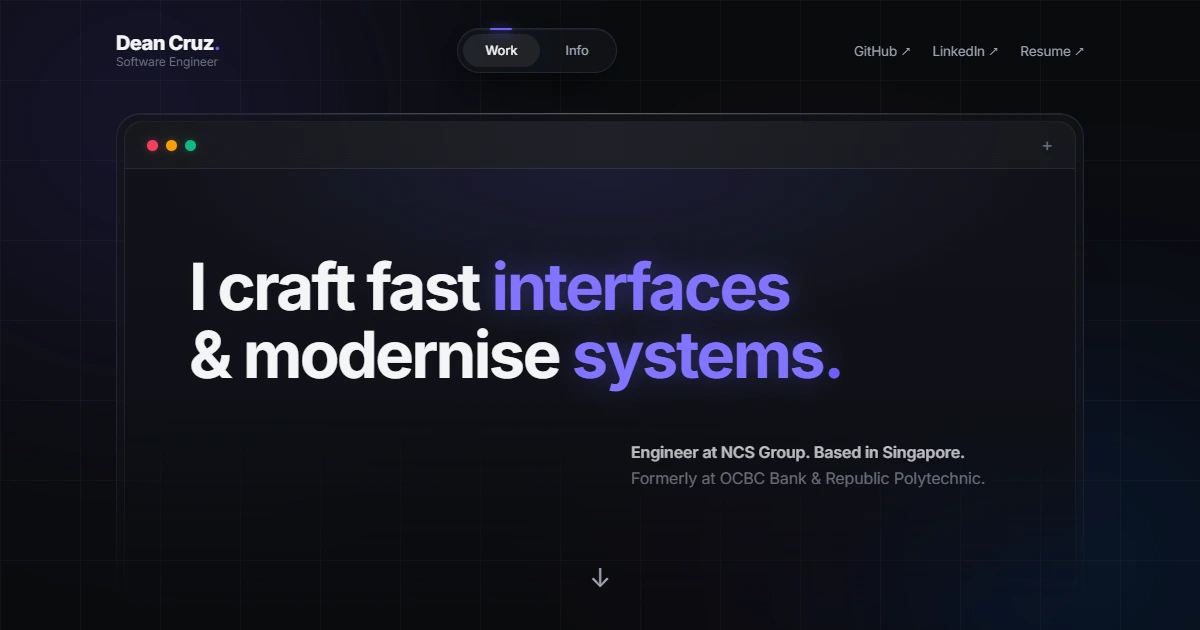
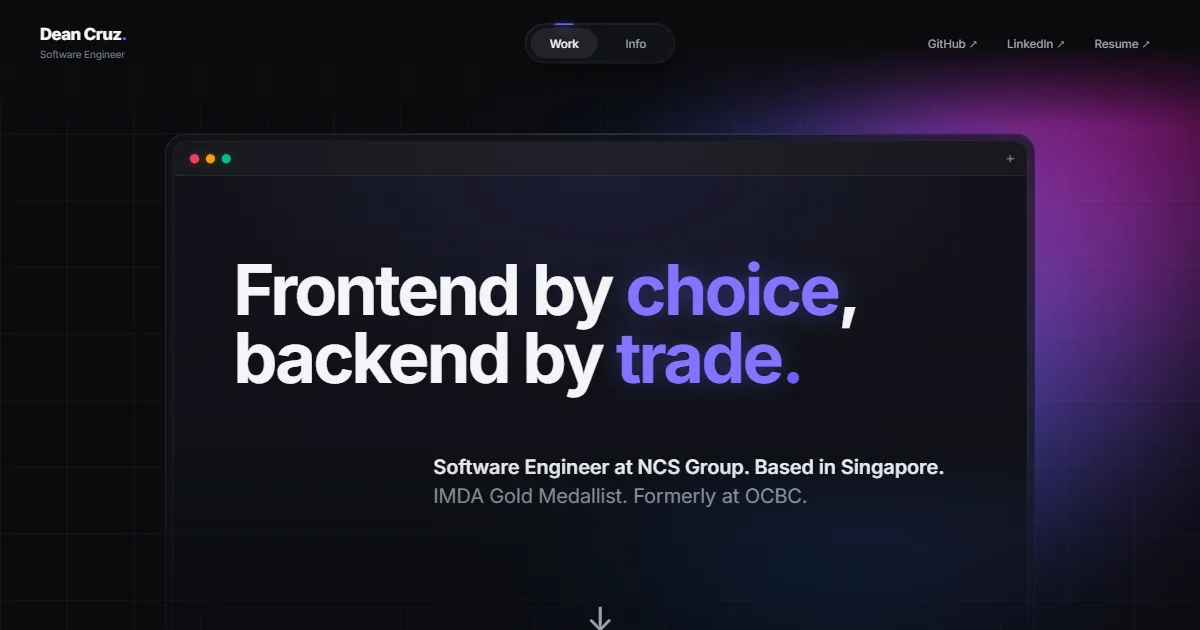
chore: refresh metadata, link preview image and README

diff --git a/index.html b/index.html
@@ -12,11 +12,11 @@
     <meta name="title" content="Dean Cruz - Software Engineer" />
     <meta
       name="description"
-      content="Dean Cruz, software engineer in Singapore. Crafting fast interfaces and modernising systems with React, TypeScript, Angular, and Java."
+      content="Dean Cruz, software engineer in Singapore. Full-stack and strongest on the frontend: React, TypeScript and Next.js projects, and Java modernisation at NCS Group."
     />
     <meta
       name="keywords"
-      content="Dean Cruz, software engineer, frontend developer, React developer, TypeScript, Next.js, Angular, Java, portfolio, Singapore"
+      content="Dean Cruz, software engineer, full-stack engineer, frontend engineer, React, TypeScript, Next.js, Java, Spring Boot, portfolio, Singapore"
     />
     <meta name="author" content="Dean Cruz" />
     <meta name="robots" content="index, follow" />
@@ -28,7 +28,7 @@
     <meta property="og:title" content="Dean Cruz - Software Engineer" />
     <meta
       property="og:description"
-      content="Dean Cruz, software engineer in Singapore. Crafting fast interfaces and modernising systems with React, TypeScript, Angular, and Java."
+      content="Dean Cruz, software engineer in Singapore. Full-stack and strongest on the frontend: React, TypeScript and Next.js projects, and Java modernisation at NCS Group."
     />
     <meta property="og:image" content="https://deancruz1.github.io/preview.webp" />
     <meta property="og:site_name" content="Dean Cruz | Software Engineer" />
@@ -39,7 +39,7 @@
     <meta name="twitter:title" content="Dean Cruz - Software Engineer" />
     <meta
       name="twitter:description"
-      content="Dean Cruz, software engineer in Singapore. Crafting fast interfaces and modernising systems with React, TypeScript, Angular, and Java."
+      content="Dean Cruz, software engineer in Singapore. Full-stack and strongest on the frontend: React, TypeScript and Next.js projects, and Java modernisation at NCS Group."
     />
     <meta name="twitter:image" content="https://deancruz1.github.io/preview.webp" />
 
@@ -76,6 +76,8 @@
         "name": "Dean Cruz",
         "url": "https://deancruz1.github.io/",
         "jobTitle": "Software Engineer",
+        "description": "Full-stack software engineer, strongest on the frontend.",
+        "knowsAbout": ["React", "TypeScript", "Next.js", "Java", "Spring Boot", "PostgreSQL"],
         "worksFor": { "@type": "Organization", "name": "NCS Group" },
         "alumniOf": { "@type": "CollegeOrUniversity", "name": "Republic Polytechnic" },
         "address": { "@type": "PostalAddress", "addressCountry": "SG" },

diff --git a/README.md b/README.md
@@ -1,185 +1,79 @@
 # Dean Cruz - Software Engineer Portfolio
 
-This is my personal portfolio website showcasing my work as a frontend-focused software engineer. It includes sections like Hero, Short profile, Work experience, and Featured projects to give recruiters a comprehensive view of my skills and experience.
+My personal site: [deancruz1.github.io](https://deancruz1.github.io/)
+
+I'm a full-stack engineer, strongest on the frontend. The site shows my side projects (React, TypeScript, Next.js) and a breakdown of how each one is built, alongside my work and study history.
+
+## Pages
+
+- **Work** (`/`): the hero, three featured projects as cards, and an archive of smaller projects.
+- **Info** (`/info`): a short intro, an interactive story of how I got here, a work and study explorer, and the tools I use.
+- **Project pages** (`/projects/:slug`): one per project, with an overview, an annotated screenshot that explains the engineering behind the interface, the decisions I made, what was hard, and the screens.
 
 ## Features
-- **Responsive design**: Works on mobile, tablet, and desktop, with compact project cards and a drop-down menu on phones.
-- **Living background**: Three coloured lights wander on their own and drift toward the cursor on desktop, with a subtle grid glow; on touch screens they sit still.
-- **Theme toggle**: Light/dark mode switching with persistent user preference, revealed with a circular wipe.
-- **Pre-rendered pages**: Every page ships its full content in the HTML, so shared links and search engines see the real page before any JavaScript runs.
-- **Per-page code**: Each page's JavaScript is its own file, so visitors only download the page they open.
-- **Accessible by default**: Skip-to-content link, visible focus rings, and reduced-motion support.
-- **Case studies**: Project pages with the problem, the approach, technical decisions, challenges, and what I'd do differently.
 
-## Technologies Used
-- **React 19**: For building the frontend.
-- **Vite 8**: For development and bundling.
-- **React Router 7**: For navigation between pages.
-- **Tailwind CSS 4**: For styling the website.
-- **Framer Motion**: For page animations and transitions.
-- **vite-react-ssg**: For pre-rendering the home page at build time.
-- **react-helmet-async**: For per-page titles and sharing tags.
-- **GitHub Pages**: For deploying the website.
+- **Pre-rendered pages:** every page ships its full content in the HTML, so search engines and link previews see the real page before any JavaScript runs.
+- **Per-page code:** each page's JavaScript is its own file, so visitors only download the page they open. A spinner or skeleton shows while a page loads.
+- **Three themes:** Midnight Slate, Foundations Sage and Daylight, picked from the footer and remembered between visits.
+- **Annotated screens:** hover or tap a note to highlight the part of the screenshot it explains.
+- **Responsive:** laid out separately for phones, tablets and wide screens, scaling up to 2560px.
+- **Accessible:** skip-to-content link, visible focus rings, keyboard support for every interactive part, text contrast that meets WCAG AA, and reduced-motion support.
+- **Light on data:** project videos only download once they're on screen.
 
-## Project Structure
+## Tech
 
-### `App.jsx`
+- React 19, React Router 7, Vite 8
+- Tailwind CSS 4, plus plain CSS per page
+- vite-react-ssg and a custom render step for pre-rendering
+- react-helmet-async for per-page titles and sharing tags
+- GitHub Pages for hosting
 
-```jsx
-import { lazy, Suspense } from "react";
-import { BrowserRouter, MemoryRouter, Routes, Route } from "react-router-dom";
-import { MotionConfig } from "framer-motion";
-import Background from "./components/Background";
-import Navbar from "./components/Navbar";
-import Footer from "./components/Footer";
-
-// Each page's code is its own file, so a visitor only downloads the page
-// they open. scripts/prerender-meta.mjs adds the matching preload to each page.
-const Home = lazy(() => import("./pages/Home"));
-const Projects = lazy(() => import("./pages/Projects"));
-const ProjectDetail = lazy(() => import("./pages/ProjectDetail"));
-const NotFound = lazy(() => import("./pages/NotFound"));
-
-// Dynamically select the router based on the environment
-const Router = typeof window !== "undefined" ? BrowserRouter : MemoryRouter;
-
-const skipToContent = (e) => {
-  e.preventDefault();
-  document.getElementById("content").focus();
-};
-
-function App() {
-  // At build time scripts/prerender-meta.mjs sets which page to render
-  const routerProps =
-    typeof window !== "undefined"
-      ? {}
-      : { initialEntries: [globalThis.__prerenderPath ?? "/"] };
-
-  return (
-    // Use the dynamic Router instead of hardcoding BrowserRouter
-    <Router {...routerProps}>
-      {/* Drops slide and scale animations for people who ask for less motion */}
-      <MotionConfig reducedMotion="user">
-        <div className="flex min-h-screen flex-col">
-          {/* Off screen until a keyboard user tabs to it */}
-          <a
-            href="#content"
-            onClick={skipToContent}
-            className="fixed top-3 left-3 z-120 -translate-y-24 rounded-full bg-(--accent) px-4 py-2 font-bold text-(--button-primary) focus:translate-y-0"
-          >
-            Skip to content
-          </a>
-          <Background />
-          <Navbar />
-
-          <div className="grow outline-none" id="content" tabIndex={-1}>
-            <Suspense fallback={null}>
-              <Routes>
-                <Route path="/" element={<Home />} />
-                <Route path="/projects" element={<Projects />} />
-                <Route path="/projects/:slug" element={<ProjectDetail />} />
-                <Route path="*" element={<NotFound />} />
-              </Routes>
-            </Suspense>
-          </div>
-
-          <Footer />
-        </div>
-      </MotionConfig>
-    </Router>
-  );
-}
-
-export default App;
-```
-## Folder Structure
+## Project structure
 
 ```text
-├── public/                 # Resume, robots.txt, 404 redirect, link preview image, icons
-├── scripts/                # Build step that renders every page and writes the sitemap
-├── src/
-│   ├── assets/             # Media assets (images, icons, videos, project gallery)
-│   ├── components/         # Cards, Navbar, Background, section headers, etc.
-│   ├── context/            # Light/dark mode theme management
-│   ├── data/               # Experience, education, awards, projects, links
-│   ├── hooks/              # Hook for reading the current theme
-│   ├── pages/              # Main route components
-│   ├── App.jsx
-│   ├── index.css
-│   └── main.jsx
-├── eslint.config.js
-├── package.json
-└── vite.config.js
+├── public/        # Resume, robots.txt, 404 redirect, link preview image, icons
+├── scripts/       # Build step that renders every page and writes the sitemap
+└── src/
+    ├── assets/       # Project images, screenshots, videos and logos
+    ├── components/   # Navbar, Footer, Background, page fallbacks, the annotated
+    │                 # screen inspector and the Info page story scenes
+    ├── context/      # Theme list and provider
+    ├── data/         # Projects, work and study history, personal links
+    ├── hooks/        # Hook for reading the current theme
+    ├── pages/        # Home (Work), Info, ProjectDetail and NotFound
+    ├── styles/       # Styles shared by the inspector and the Info story
+    ├── App.jsx       # Routes, scroll handling and page fallbacks
+    └── main.jsx
 ```
 
-### Navigation Structure
-The navbar includes links to:
-- Home (with anchor links: `#hero`, `#about`, `#experience`, `#projects`, labelled Home, Short profile, Work experience, Featured projects)
-- All projects (`/projects` route)
-- Light/dark mode toggle and a Connect button
+## Adding a project
 
-### Key Components
-- **Background:** Three coloured lights that wander on their own loops and chase the cursor on pointer devices.
-- **Grid:** Faint grid overlay used inside cards and the hero, with a glow that follows the cursor.
-- **Navbar:** Fixed navigation with theme toggle, scroll progress bar, and mobile hamburger menu.
-- **SectionHeader:** Numbered section heading used by the home page sections.
-- **SkillCard:** Technology tile in the Short profile section.
-- **WorkExperienceCard / HomeExperienceSection:** Role switcher with number tiles and animated detail text.
-- **ProjectCardHome / HomeProjectsSection:** Featured project cards with live demo, code, and case study links.
-- **ProjectCardGrid:** Project cards for the All projects page (grid on desktop, compact rows on phones).
-- **EducationItem / AwardItem:** Rows in the Education and Awards cards.
-- **ThemeToggle:** Sun/moon icon button that switches between light and dark mode.
-- **HydrationGate:** Keeps the first render in step with the pre-rendered HTML.
-- **Footer:** Contains name, email contact, and social links.
+Projects live in `src/data/project-info-home.jsx`. Each one has:
 
-### Context & Hooks
-- **ThemeContext / ThemeProvider:** Manages light/dark mode state.
-- **useTheme:** Custom hook for accessing theme context.
+- `title`, `slug`, `description` (one line, also used as the page's search description), `tags` (the stack) and `image` (the card thumbnail)
+- `overview`: two short paragraphs for the project page
+- `features`: a list of feature names
+- `liveDemo` and `github` links, both optional
+- `heroVideo`: the demo video at the top of the project page
+- `gallery`: the screenshots, picked up from `src/assets/img/project-gallery/<folder>/`
+- `annotatedScreen`: the screenshot with numbered notes
+- `notes`: `decisions` (choice and reason), `hard` (one line each) and an optional `next`
+- `stageMeta` for featured projects (card stack label, summary and hover colour), or `archiveMeta` for archive rows
 
-### Data Files
-- `awards.js` - Awards and honours data
-- `education.js` - Education history
-- `personal-links.js` - Email, GitHub, LinkedIn, and resume links
-- `project-info-home.jsx` - All project data, including case studies, galleries, and card thumbnails
-- `tech-icons.jsx` - Technology icons mapping
-- `work-experience.js` - Work experience entries
+Add the slug to `FEATURED_SLUGS` or `ARCHIVE_SLUGS` at the bottom of the file to show it on the Work page. The build adds its page and sitemap entry automatically.
 
-### Routing
-The website has the following routes:
-- `/` - Homepage with Hero, Short profile, Work experience, and Featured projects sections
-- `/projects` - All projects page, filterable by category
-- `/projects/:slug` - Individual project detail page
+## Scripts
 
-## Build
-`npm run build` runs in two steps:
-1. `vite-react-ssg build` bundles the app and pre-renders the home page.
-2. `scripts/prerender-meta.mjs` renders every page (home, All projects, and each project) into its own `index.html` with the right title, description, link preview image, canonical link, and script preloads, then writes `sitemap.xml` from the same list of pages.
+- `npm run dev`: local development
+- `npm run build`: builds the site, then `scripts/prerender-meta.mjs` renders every page into its own `index.html` with the right title, description, preview image and canonical link, and writes `sitemap.xml`
+- `npm run preview`: serves the built site
+- `npm run lint`: ESLint
+- `npm run deploy`: builds and publishes `dist` to GitHub Pages
 
-GitHub Pages only serves real files, so unknown addresses fall through to `public/404.html`, which redirects to the home page with the original path; the app then shows the right page or a 404.
+GitHub Pages only serves real files, so unknown addresses fall through to `public/404.html`, which sends them back to the app to show the right page or a 404.
 
-Other scripts: `npm run dev` for local development, `npm run preview` to serve the built site, and `npm run lint`.
+## Contact
 
-## Deployment
-This website is hosted on GitHub Pages. You can view the live version at:
-[https://deancruz1.github.io/](https://deancruz1.github.io/)
-
-## Usage
-This portfolio website has the following main sections:
-- **Home (Hero):** The landing page that introduces me as a Software Engineer, with my stack, key stats, and call-to-action buttons for projects, Resume, GitHub, and LinkedIn.
-- **Short profile:** Work and side project tiles, a technologies grid, hobbies, education, and awards.
-- **Work experience:** My professional journey showing roles at NCS and OCBC Bank.
-- **Featured projects:** My three best apps with live demo, code, and case study links.
-- **All projects page:** A complete view of every project, filterable by Full-stack, Frontend, and Design, accessible via the "All projects" link in the navigation bar.
-- **Project detail pages:** Individual pages for each project with case study information on certain projects.
-- **Footer:** Contains my name, email contact, and social links (GitHub, LinkedIn, Resume).
-
-To navigate the website, simply click on the links in the navigation bar. The homepage uses anchor links (`/#about`, `/#experience`, `/#projects`) to scroll smoothly to sections. The "All projects" link navigates to a separate page with the complete project collection.
-
-## Contact Information
-If you'd like to get in touch with me, here are the best ways to reach me:
 - **Email:** [deancruzgg@gmail.com](mailto:deancruzgg@gmail.com)
-- **GitHub:** [https://github.com/deancruz1](https://github.com/deancruz1)
-- **LinkedIn:** [https://www.linkedin.com/in/dean-cruz/](https://www.linkedin.com/in/dean-cruz/)
-- **Location:** Singapore, SG
-
-Feel free to send me a message for collaborations, opportunities, or general questions about my work. I'm always open to new opportunities and feedback!
+- **GitHub:** [github.com/deancruz1](https://github.com/deancruz1)
+- **LinkedIn:** [linkedin.com/in/dean-cruz](https://www.linkedin.com/in/dean-cruz/)
